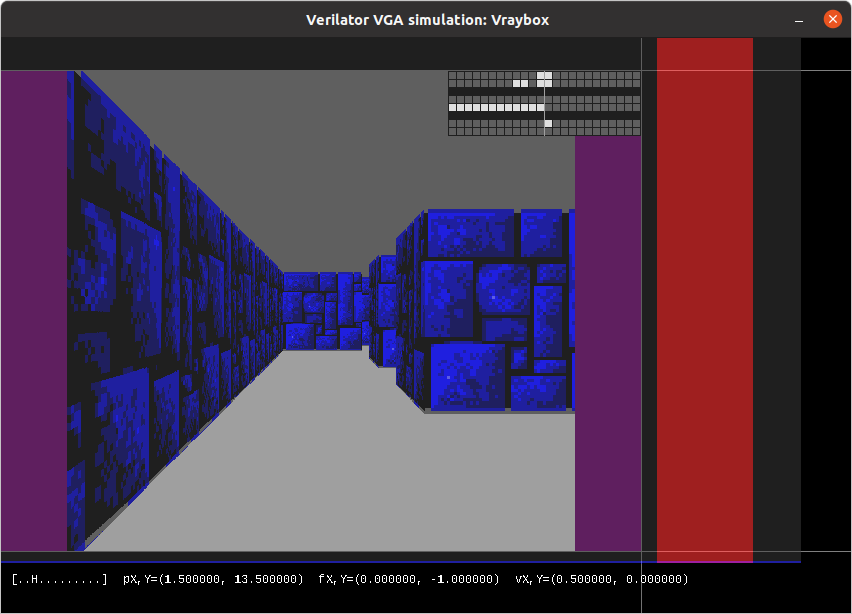
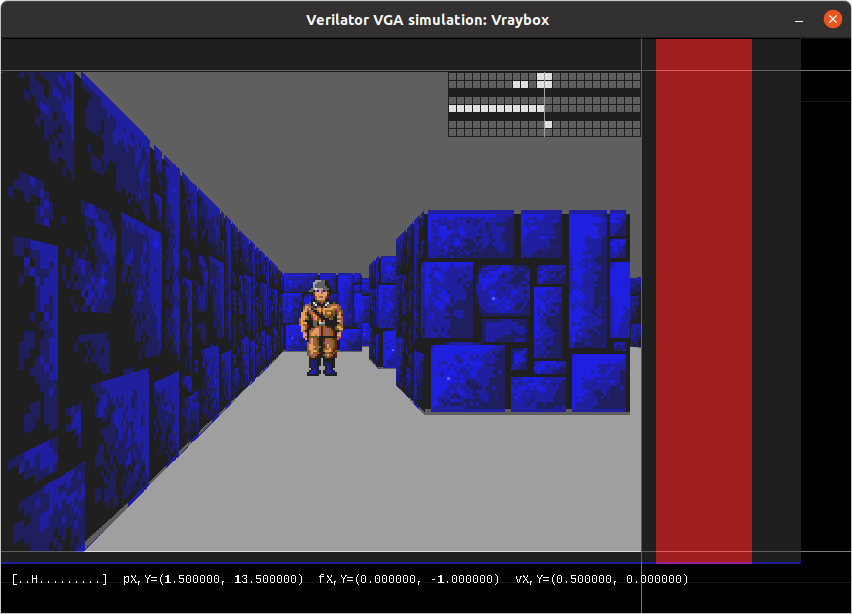
Updating README for sprite

diff --git a/README.md b/README.md
@@ -21,11 +21,13 @@
 
 This is the start of a Verilog-based ray casting VGA renderer (i.e. "Wolf3D-style" game).
 
-Below is a crappy animated GIF before wall textures were implemented. This doesn't do it justice; running on the FPGA, it is super smooth (60FPS) and clean:
+Below is a crappy animated GIF before wall textures and the sprite were implemented.
+This doesn't do it justice; running on the FPGA, it is super smooth (60FPS) and clean:
 
 ![Animated GIF showing Raybox running on FPGA](doc/raybox-video-1.gif)
 
-Running on an FPGA, showing 64x64 wall textures with RGB222 colour, but actually outputting only RGB111 to the monitor and using a 2x2 ordered dither:
+Running on an FPGA, showing 64x64 sprite and wall textures, with RGB222 colour,
+but actually outputting only RGB111 to the monitor and using a 2x2 ordered dither:
 
 ![Raybox running on FPGA showing wall textures](doc/raybox-walls.jpg)
 
@@ -51,6 +53,10 @@ I've been trying it out with an OpenLane Docker container (version `efabless/ope
 1.  Go into `openlane/designs` and run `git clone git@github.com:algofoogle/raybox`
 2.  Go back into the `openlane/` root dir, and start the Docker container.
 3.  Run: `time ./flow.tcl -design raybox -verbose 1`
+
+Using a Q9.9 fixed-point range, I've been able to get it to sort of fit in Caravel's limits, but with
+excessive timing violations. There are some optimisations that I think I can do yet,
+but making it work with Caravel could be hard!
 
 
 # Hardware
